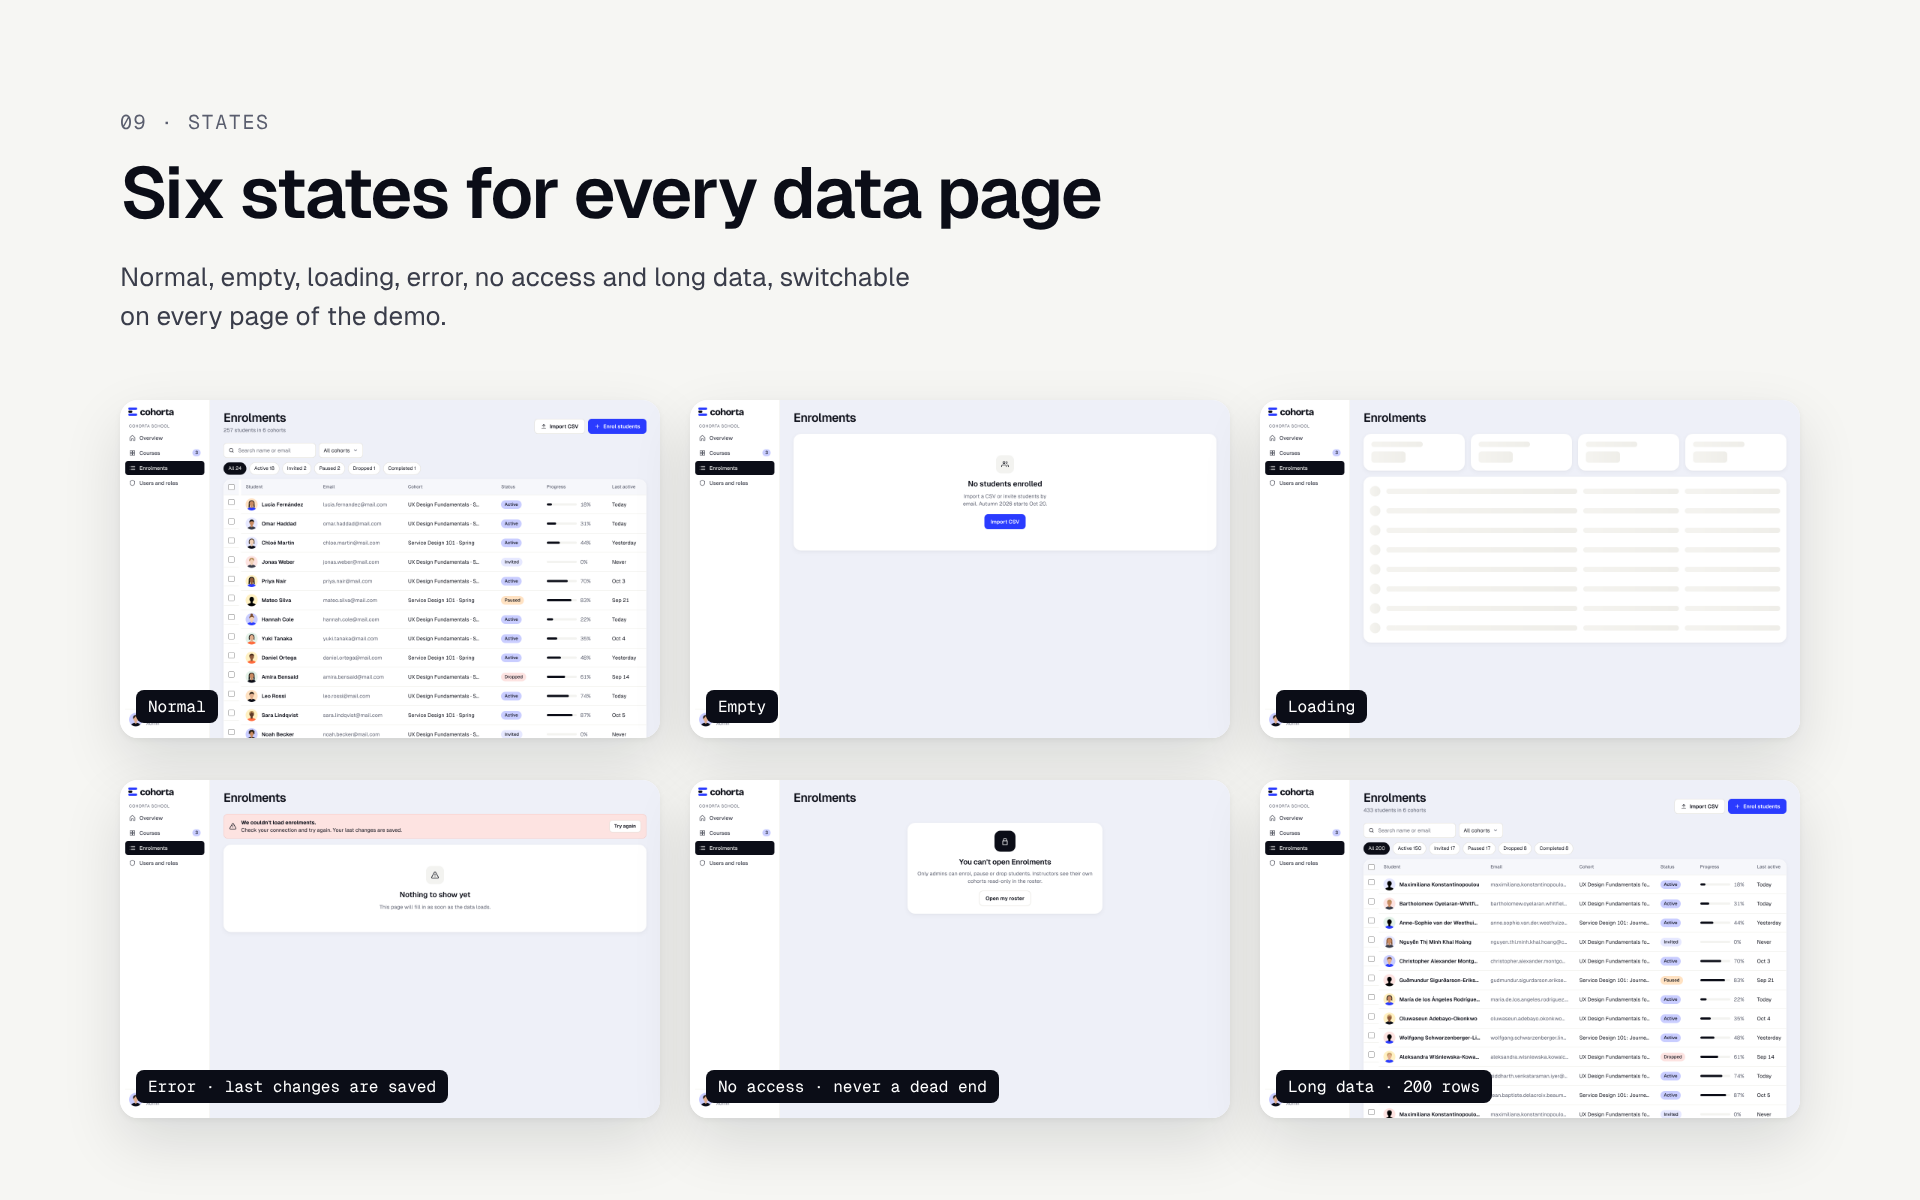
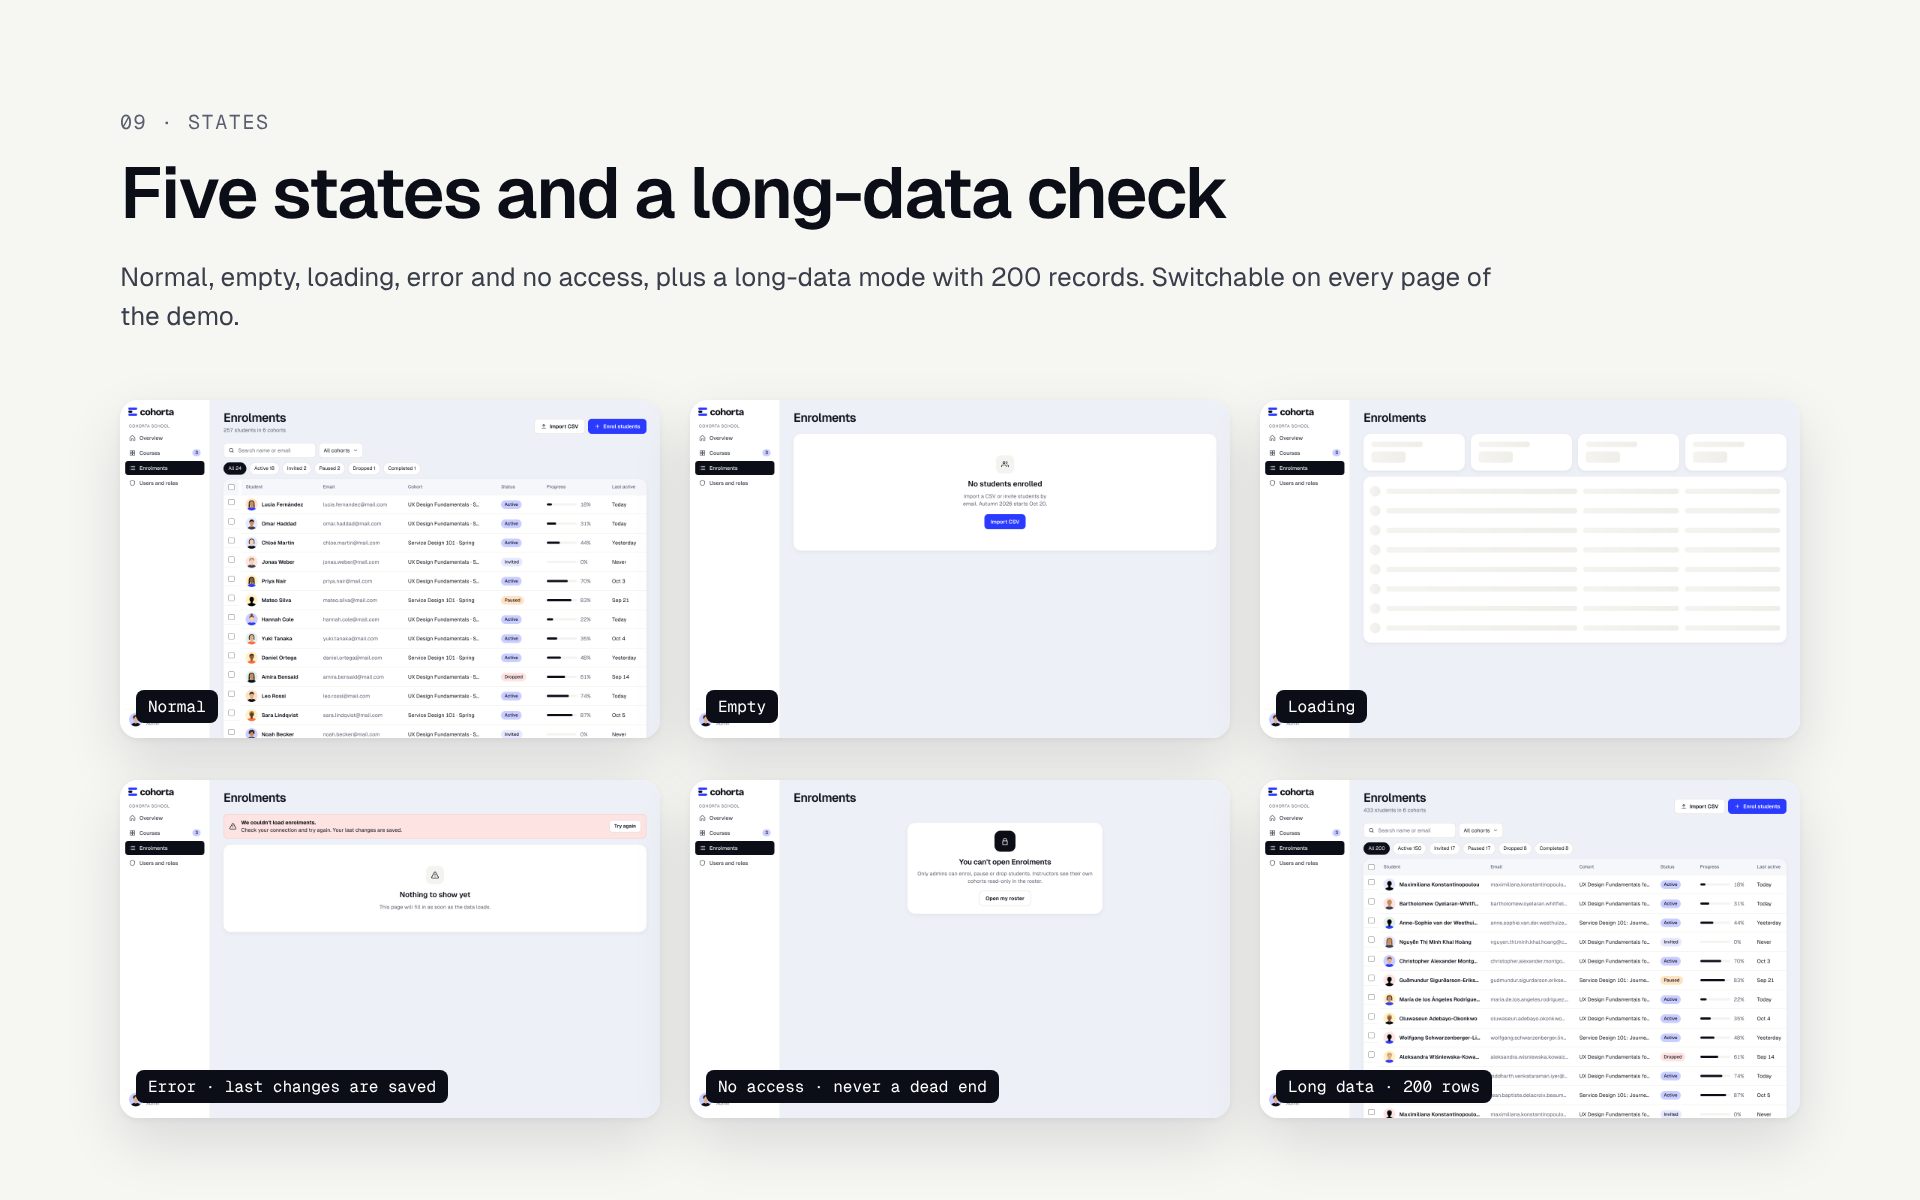
Final reconciliation: README role rules, five states plus long data on the case slides
Claude-Session: https://claude.ai/code/session_013EWPuoJWmvudSPMU5kALcY

Changed region(s): [[0.0625, 0.1233, 0.6562, 0.185], [0.25, 0.2158, 0.7812, 0.2467], [0.0625, 0.2467, 0.2188, 0.2775]]

diff --git a/README.md b/README.md
@@ -31,14 +31,14 @@ Online schools run the same course for several cohorts at once. Students, instru
 |---|---|
 | Student | Course home with the next step, lesson, locked lesson, assignment upload, grades |
 | Instructor | Grading queue with filters and bulk actions, quick review panel, full grading view with AI draft, course builder, assignment editor, roster |
-| Teaching assistant | The same grading tools scoped to Group A: queue, quick review, grading view, group roster. Work from other groups opens as No access, and a released grade is locked with a note that only the instructor can change it |
+| Teaching assistant | The same grading tools scoped to Group A, in a simpler view: queue without the Group column, quick review over the queue, grading view, group roster. Work from other groups opens as No access, and a released grade is locked with a note that only the instructor can change it |
 | Admin | Overview, course review and publishing, cohort scheduling, enrolments with bulk pause and undo, users and roles with an audit log |
 
 Use the bar at the top to switch role and page state: normal, empty, loading, error, no access, long data.
 
 ## Key UX decisions
 
-- **Queue first, not inbox.** Instructors grade from one queue sorted by risk and due date, with a quick review panel so they never lose their place.
+- **Queue first, not inbox.** Instructors grade from one queue sorted by Priority (late work first, then whatever has waited longest), with a quick review panel so they never lose their place.
 - **AI drafts a grade, a person releases it.** The AI draft is visibly marked, can be accepted, edited or discarded, and nothing reaches a student without a human release. Release stays locked until the draft is accepted, edited or discarded, a discarded draft takes its score with it, and every release says in the audit log whether AI helped. A release can be undone for a few seconds.
 - **Versions protect running cohorts.** Course edits go into a new version; a running cohort keeps its version until an admin pushes the update.
 - **Every sensitive action is logged.** Role changes, pushes and bulk actions land in the audit log; bulk actions have undo.
@@ -50,7 +50,7 @@ Motion appears only where it explains an action or a state: the review panel sli
 
 ## Visual layer
 
-The original white sidebar with the cobalt logo, content on a light canvas, and white cards with a barely visible shadow. People are drawn as illustrated, faceless avatars generated from their names, so long-data names get a stable drawing too. On screens 1400 px and wider the quick review is a column next to the grading queue: any row opens in one click and the queue is never dimmed. Below 1400 px it slides over the queue, and on a phone review is a separate step.
+The original white sidebar with the cobalt logo, content on a light canvas, and white cards with a barely visible shadow. People are drawn as illustrated, faceless avatars generated from their names, so long-data names get a stable drawing too. For instructors on screens 1400 px and wider the quick review is a column next to the grading queue: any row opens in one click and the queue is never dimmed. Below 1400 px, and always for a teaching assistant, it slides over the queue; on a phone review is a separate step. Release has three visible states: locked until a decision on the AI draft, ready with a preview of what the student will see, and released with a few seconds to undo.
 
 ## Long content
 
